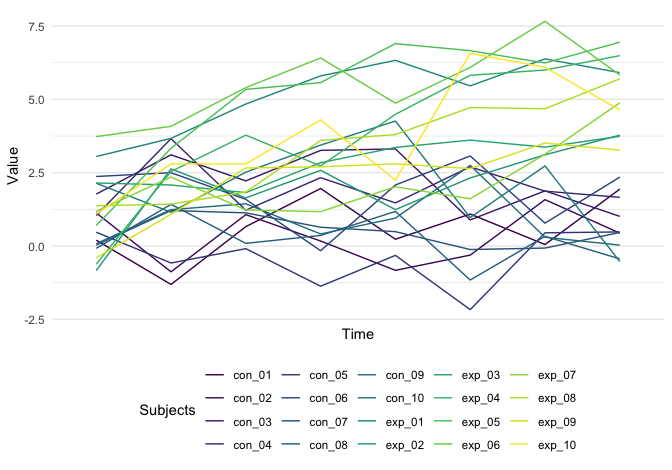
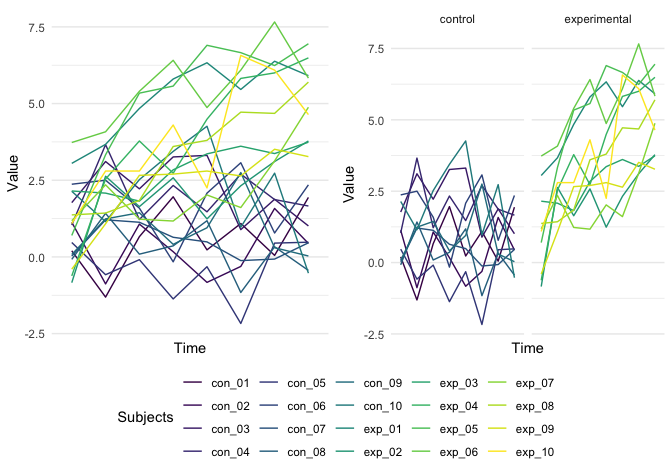
last

diff --git a/p8105_hw5_kb3066.md b/p8105_hw5_kb3066.md
@@ -12,12 +12,6 @@ representing. Collected data includes city, date, location coordinates,
 disposition, along with victim’s information (name, sex, age, race)
 
 ``` r
-# vic_html <- read_html("https://raw.githubusercontent.com/washingtonpost/data-homicides/master/homicide-data.csv")
-# vic_html %>% html_table()
-#   
-# GET("https://raw.githubusercontent.com/washingtonpost/data-homicides/master/homicide-data.csv") %>% content( ) 
-
-
 wash_post <- "https://raw.githubusercontent.com/washingtonpost/data-homicides/master/homicide-data.csv"
 
 post_df <- wash_post %>% url %>% read_csv()
@@ -201,209 +195,7 @@ exp_paths <- exp  %>% mutate(filepath = paste0("data/", filename))
 
 
 all_files <- exp_paths %>% mutate(data = map(exp_paths$filepath, read_csv)) 
-```
 
-    ## Rows: 1 Columns: 8
-
-    ## ── Column specification ────────────────────────────────────────────────────────
-    ## Delimiter: ","
-    ## dbl (8): week_1, week_2, week_3, week_4, week_5, week_6, week_7, week_8
-
-    ## 
-    ## ℹ Use `spec()` to retrieve the full column specification for this data.
-    ## ℹ Specify the column types or set `show_col_types = FALSE` to quiet this message.
-
-    ## Rows: 1 Columns: 8
-
-    ## ── Column specification ────────────────────────────────────────────────────────
-    ## Delimiter: ","
-    ## dbl (8): week_1, week_2, week_3, week_4, week_5, week_6, week_7, week_8
-
-    ## 
-    ## ℹ Use `spec()` to retrieve the full column specification for this data.
-    ## ℹ Specify the column types or set `show_col_types = FALSE` to quiet this message.
-
-    ## Rows: 1 Columns: 8
-
-    ## ── Column specification ────────────────────────────────────────────────────────
-    ## Delimiter: ","
-    ## dbl (8): week_1, week_2, week_3, week_4, week_5, week_6, week_7, week_8
-
-    ## 
-    ## ℹ Use `spec()` to retrieve the full column specification for this data.
-    ## ℹ Specify the column types or set `show_col_types = FALSE` to quiet this message.
-
-    ## Rows: 1 Columns: 8
-
-    ## ── Column specification ────────────────────────────────────────────────────────
-    ## Delimiter: ","
-    ## dbl (8): week_1, week_2, week_3, week_4, week_5, week_6, week_7, week_8
-
-    ## 
-    ## ℹ Use `spec()` to retrieve the full column specification for this data.
-    ## ℹ Specify the column types or set `show_col_types = FALSE` to quiet this message.
-
-    ## Rows: 1 Columns: 8
-
-    ## ── Column specification ────────────────────────────────────────────────────────
-    ## Delimiter: ","
-    ## dbl (8): week_1, week_2, week_3, week_4, week_5, week_6, week_7, week_8
-
-    ## 
-    ## ℹ Use `spec()` to retrieve the full column specification for this data.
-    ## ℹ Specify the column types or set `show_col_types = FALSE` to quiet this message.
-
-    ## Rows: 1 Columns: 8
-
-    ## ── Column specification ────────────────────────────────────────────────────────
-    ## Delimiter: ","
-    ## dbl (8): week_1, week_2, week_3, week_4, week_5, week_6, week_7, week_8
-
-    ## 
-    ## ℹ Use `spec()` to retrieve the full column specification for this data.
-    ## ℹ Specify the column types or set `show_col_types = FALSE` to quiet this message.
-
-    ## Rows: 1 Columns: 8
-
-    ## ── Column specification ────────────────────────────────────────────────────────
-    ## Delimiter: ","
-    ## dbl (8): week_1, week_2, week_3, week_4, week_5, week_6, week_7, week_8
-
-    ## 
-    ## ℹ Use `spec()` to retrieve the full column specification for this data.
-    ## ℹ Specify the column types or set `show_col_types = FALSE` to quiet this message.
-
-    ## Rows: 1 Columns: 8
-
-    ## ── Column specification ────────────────────────────────────────────────────────
-    ## Delimiter: ","
-    ## dbl (8): week_1, week_2, week_3, week_4, week_5, week_6, week_7, week_8
-
-    ## 
-    ## ℹ Use `spec()` to retrieve the full column specification for this data.
-    ## ℹ Specify the column types or set `show_col_types = FALSE` to quiet this message.
-
-    ## Rows: 1 Columns: 8
-
-    ## ── Column specification ────────────────────────────────────────────────────────
-    ## Delimiter: ","
-    ## dbl (8): week_1, week_2, week_3, week_4, week_5, week_6, week_7, week_8
-
-    ## 
-    ## ℹ Use `spec()` to retrieve the full column specification for this data.
-    ## ℹ Specify the column types or set `show_col_types = FALSE` to quiet this message.
-
-    ## Rows: 1 Columns: 8
-
-    ## ── Column specification ────────────────────────────────────────────────────────
-    ## Delimiter: ","
-    ## dbl (8): week_1, week_2, week_3, week_4, week_5, week_6, week_7, week_8
-
-    ## 
-    ## ℹ Use `spec()` to retrieve the full column specification for this data.
-    ## ℹ Specify the column types or set `show_col_types = FALSE` to quiet this message.
-
-    ## Rows: 1 Columns: 8
-
-    ## ── Column specification ────────────────────────────────────────────────────────
-    ## Delimiter: ","
-    ## dbl (8): week_1, week_2, week_3, week_4, week_5, week_6, week_7, week_8
-
-    ## 
-    ## ℹ Use `spec()` to retrieve the full column specification for this data.
-    ## ℹ Specify the column types or set `show_col_types = FALSE` to quiet this message.
-
-    ## Rows: 1 Columns: 8
-
-    ## ── Column specification ────────────────────────────────────────────────────────
-    ## Delimiter: ","
-    ## dbl (8): week_1, week_2, week_3, week_4, week_5, week_6, week_7, week_8
-
-    ## 
-    ## ℹ Use `spec()` to retrieve the full column specification for this data.
-    ## ℹ Specify the column types or set `show_col_types = FALSE` to quiet this message.
-
-    ## Rows: 1 Columns: 8
-
-    ## ── Column specification ────────────────────────────────────────────────────────
-    ## Delimiter: ","
-    ## dbl (8): week_1, week_2, week_3, week_4, week_5, week_6, week_7, week_8
-
-    ## 
-    ## ℹ Use `spec()` to retrieve the full column specification for this data.
-    ## ℹ Specify the column types or set `show_col_types = FALSE` to quiet this message.
-
-    ## Rows: 1 Columns: 8
-
-    ## ── Column specification ────────────────────────────────────────────────────────
-    ## Delimiter: ","
-    ## dbl (8): week_1, week_2, week_3, week_4, week_5, week_6, week_7, week_8
-
-    ## 
-    ## ℹ Use `spec()` to retrieve the full column specification for this data.
-    ## ℹ Specify the column types or set `show_col_types = FALSE` to quiet this message.
-
-    ## Rows: 1 Columns: 8
-
-    ## ── Column specification ────────────────────────────────────────────────────────
-    ## Delimiter: ","
-    ## dbl (8): week_1, week_2, week_3, week_4, week_5, week_6, week_7, week_8
-
-    ## 
-    ## ℹ Use `spec()` to retrieve the full column specification for this data.
-    ## ℹ Specify the column types or set `show_col_types = FALSE` to quiet this message.
-
-    ## Rows: 1 Columns: 8
-
-    ## ── Column specification ────────────────────────────────────────────────────────
-    ## Delimiter: ","
-    ## dbl (8): week_1, week_2, week_3, week_4, week_5, week_6, week_7, week_8
-
-    ## 
-    ## ℹ Use `spec()` to retrieve the full column specification for this data.
-    ## ℹ Specify the column types or set `show_col_types = FALSE` to quiet this message.
-
-    ## Rows: 1 Columns: 8
-
-    ## ── Column specification ────────────────────────────────────────────────────────
-    ## Delimiter: ","
-    ## dbl (8): week_1, week_2, week_3, week_4, week_5, week_6, week_7, week_8
-
-    ## 
-    ## ℹ Use `spec()` to retrieve the full column specification for this data.
-    ## ℹ Specify the column types or set `show_col_types = FALSE` to quiet this message.
-
-    ## Rows: 1 Columns: 8
-
-    ## ── Column specification ────────────────────────────────────────────────────────
-    ## Delimiter: ","
-    ## dbl (8): week_1, week_2, week_3, week_4, week_5, week_6, week_7, week_8
-
-    ## 
-    ## ℹ Use `spec()` to retrieve the full column specification for this data.
-    ## ℹ Specify the column types or set `show_col_types = FALSE` to quiet this message.
-
-    ## Rows: 1 Columns: 8
-
-    ## ── Column specification ────────────────────────────────────────────────────────
-    ## Delimiter: ","
-    ## dbl (8): week_1, week_2, week_3, week_4, week_5, week_6, week_7, week_8
-
-    ## 
-    ## ℹ Use `spec()` to retrieve the full column specification for this data.
-    ## ℹ Specify the column types or set `show_col_types = FALSE` to quiet this message.
-
-    ## Rows: 1 Columns: 8
-
-    ## ── Column specification ────────────────────────────────────────────────────────
-    ## Delimiter: ","
-    ## dbl (8): week_1, week_2, week_3, week_4, week_5, week_6, week_7, week_8
-
-    ## 
-    ## ℹ Use `spec()` to retrieve the full column specification for this data.
-    ## ℹ Specify the column types or set `show_col_types = FALSE` to quiet this message.
-
-``` r
 all_files <- all_files %>% 
   mutate( arm = ifelse(startsWith(all_files$filename, "con"), "control", "experimental"), 
           id = str_sub(filename, start = 6L, end = -5L), 
@@ -416,14 +208,35 @@ data1 <- all_files %>%
   select(-(filename:data)) %>% 
   select(id, everything())
 
-data_long <- data1 %>% select(name, week_1:week_8) %>% 
+data_long <- data1 %>% select(name, week_1:week_8, arm) %>% 
   pivot_longer(
     cols = c(week_1, week_2, week_3, week_4, week_5, week_6, week_7, week_8), 
     names_to = "week", 
     values_to = "value")
+data1 %>% select(name, week_1:week_8, arm ) %>% 
+  pivot_longer(
+    cols = c(week_1, week_2, week_3, week_4, week_5, week_6, week_7, week_8), 
+    names_to = "week", 
+    values_to = "value")
+```
 
+    ## # A tibble: 160 × 4
+    ##    name   arm     week   value
+    ##    <chr>  <chr>   <chr>  <dbl>
+    ##  1 con_01 control week_1  0.2 
+    ##  2 con_01 control week_2 -1.31
+    ##  3 con_01 control week_3  0.66
+    ##  4 con_01 control week_4  1.96
+    ##  5 con_01 control week_5  0.23
+    ##  6 con_01 control week_6  1.09
+    ##  7 con_01 control week_7  0.05
+    ##  8 con_01 control week_8  1.94
+    ##  9 con_02 control week_1  1.13
+    ## 10 con_02 control week_2 -0.88
+    ## # … with 150 more rows
 
-data_long %>%  group_by(name) %>%  
+``` r
+by_arm <- data_long %>%  group_by(name) %>%  
   ggplot(aes( x= week, y = value, color = as.factor(name))) + 
   geom_line(aes(group= name )) + 
   scale_x_discrete( breaks = c( )) + 
@@ -432,7 +245,113 @@ data_long %>%  group_by(name) %>%
   scale_color_viridis_d() + 
    labs(
     color = "Subjects"
-  )
+  ) + 
+  facet_wrap(~arm)
+
+combined <- data_long %>%  group_by(name) %>%  
+  ggplot(aes( x= week, y = value, color = as.factor(name))) + 
+  geom_line(aes(group= name )) + 
+  scale_x_discrete( breaks = c( )) + 
+  xlab("Time") + 
+  ylab("Value") + 
+  scale_color_viridis_d() + 
+labs(
+    color = "Subjects"
+  ) 
+
+ggarrange(combined, by_arm, common.legend = TRUE, legend = "bottom")
 ```
 
 <img src="p8105_hw5_kb3066_files/figure-gfm/unnamed-chunk-4-1.png" width="90%" />
+The control group values are lower than the experimental values. There
+are fluctuations over time, but the experimental group increase while
+the controls stay relatively the same.
+
+## Problem 3
+
+``` r
+set.seed(10)
+
+iris_with_missing = iris %>% 
+  map_df(~replace(.x, sample(1:150, 20), NA)) %>%
+  mutate(Species = as.character(Species))
+
+fill_in = function(vector) {
+  
+  if(is.numeric(vector)) {
+    
+    vector = ifelse(is.na(vector), mean(vector, na.rm = TRUE), vector)
+    
+    }
+  
+  if(is.character(vector)) {
+    
+    vector = ifelse(is.na(vector), "virginica", vector)
+    
+  }
+  
+  return(vector)
+  
+}
+
+iris_df<- map_df(iris_with_missing, fill_in) 
+
+glimpse(iris_df)
+```
+
+    ## Rows: 150
+    ## Columns: 5
+    ## $ Sepal.Length <dbl> 5.100000, 4.900000, 4.700000, 4.600000, 5.000000, 5.40000…
+    ## $ Sepal.Width  <dbl> 3.500000, 3.000000, 3.200000, 3.100000, 3.600000, 3.90000…
+    ## $ Petal.Length <dbl> 1.400000, 1.400000, 1.300000, 1.500000, 1.400000, 1.70000…
+    ## $ Petal.Width  <dbl> 0.200000, 0.200000, 0.200000, 1.192308, 0.200000, 0.40000…
+    ## $ Species      <chr> "setosa", "setosa", "setosa", "setosa", "setosa", "setosa…
+
+``` r
+map(iris_df, Hmisc::describe)
+```
+
+    ## $Sepal.Length
+    ## .x[[i]] 
+    ##        n  missing distinct     Info     Mean      Gmd      .05      .10 
+    ##      150        0       36    0.996    5.819   0.8817    4.645    4.900 
+    ##      .25      .50      .75      .90      .95 
+    ##    5.125    5.819    6.375    6.800    7.200 
+    ## 
+    ## lowest : 4.3 4.4 4.5 4.6 4.7, highest: 7.3 7.4 7.6 7.7 7.9
+    ## 
+    ## $Sepal.Width
+    ## .x[[i]] 
+    ##        n  missing distinct     Info     Mean      Gmd      .05      .10 
+    ##      150        0       23    0.992    3.075   0.4369    2.400    2.590 
+    ##      .25      .50      .75      .90      .95 
+    ##    2.825    3.075    3.275    3.600    3.800 
+    ## 
+    ## lowest : 2.0 2.2 2.3 2.4 2.5, highest: 3.8 3.9 4.0 4.2 4.4
+    ## 
+    ## $Petal.Length
+    ## .x[[i]] 
+    ##        n  missing distinct     Info     Mean      Gmd      .05      .10 
+    ##      150        0       42    0.996    3.765    1.794    1.300    1.400 
+    ##      .25      .50      .75      .90      .95 
+    ##    1.700    4.000    4.975    5.600    5.955 
+    ## 
+    ## lowest : 1.0 1.2 1.3 1.4 1.5, highest: 6.1 6.3 6.6 6.7 6.9
+    ## 
+    ## $Petal.Width
+    ## .x[[i]] 
+    ##        n  missing distinct     Info     Mean      Gmd      .05      .10 
+    ##      150        0       23     0.99    1.192   0.8162      0.2      0.2 
+    ##      .25      .50      .75      .90      .95 
+    ##      0.4      1.2      1.8      2.1      2.3 
+    ## 
+    ## lowest : 0.1 0.2 0.3 0.4 0.5, highest: 2.1 2.2 2.3 2.4 2.5
+    ## 
+    ## $Species
+    ## .x[[i]] 
+    ##        n  missing distinct 
+    ##      150        0        3 
+    ##                                            
+    ## Value          setosa versicolor  virginica
+    ## Frequency          45         43         62
+    ## Proportion      0.300      0.287      0.413
